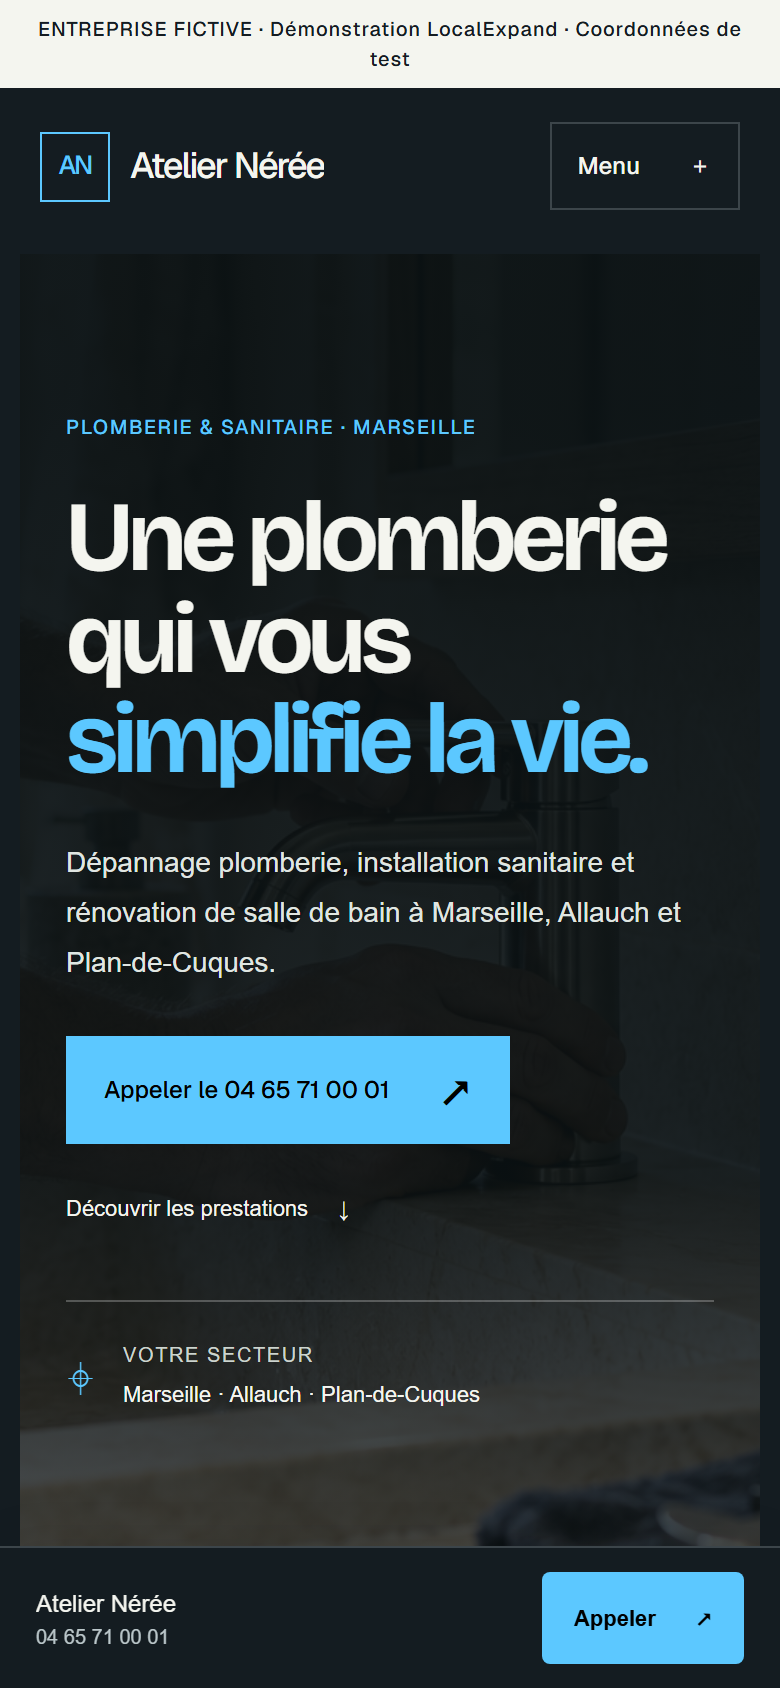
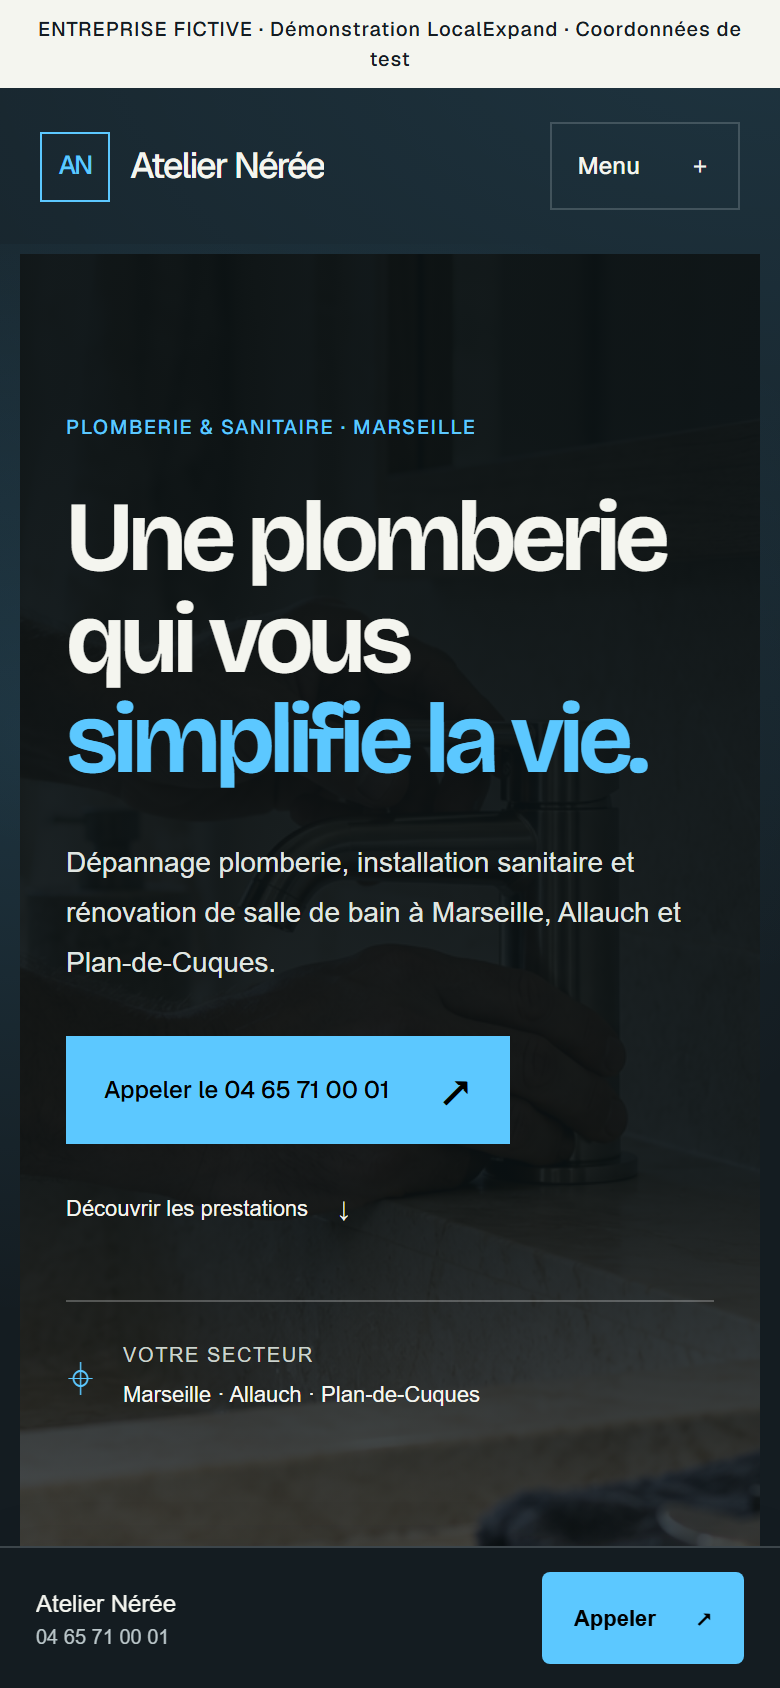
Nuances de couleur et effets sur les boutons
Halos teintés de la couleur de marque, texture discrète des zones,
profondeur de la section contact ; survol, reflet et effet enfoncé
sur les boutons, désactivés en mouvement réduit. Exemples et captures
régénérés.

Changed region(s): [[0.6154, 0.0308, 1.0, 0.1232], [0.0, 0.2464, 0.0308, 0.5237]]

diff --git a/docs/garage/styles.css b/docs/garage/styles.css
@@ -1016,6 +1016,43 @@ dt {
   .le-essential .le-about-image img {border-radius:0 28px 0 28px}
 }
 
+/* Colour nuances and tactile buttons: brand-tinted and purely decorative. */
+.le-essential {--glow:color-mix(in srgb,var(--primary) 14%,transparent);--glow-soft:color-mix(in srgb,var(--accent) 16%,transparent);--lift-shadow:0 12px 28px color-mix(in srgb,var(--primary) 34%,transparent)}
+body.le-essential {background-image:radial-gradient(1100px 680px at 100% 0,var(--glow),transparent 72%),radial-gradient(900px 620px at 0 42%,var(--glow-soft),transparent 72%);background-repeat:no-repeat}
+.le-essential .le-hero {background-image:radial-gradient(640px 420px at 8% 30%,var(--glow),transparent 70%)}
+.le-essential .le-services {background-image:linear-gradient(180deg,color-mix(in srgb,var(--primary) 7%,transparent),transparent 45%)}
+.le-essential .le-about {background-image:radial-gradient(760px 480px at 0 100%,var(--glow-soft),transparent 70%),radial-gradient(520px 360px at 100% 0,var(--glow),transparent 70%)}
+.le-essential .le-areas {position:relative;isolation:isolate}
+.le-essential .le-areas:before {content:'';position:absolute;inset:0;z-index:-1;pointer-events:none;background-image:radial-gradient(color-mix(in srgb,var(--muted) 30%,transparent) 1px,transparent 1.6px);background-size:22px 22px;-webkit-mask-image:radial-gradient(70% 90% at 70% 50%,#000,transparent);mask-image:radial-gradient(70% 90% at 70% 50%,#000,transparent)}
+.le-essential .le-contact {background-image:radial-gradient(700px 460px at 88% 10%,#ffffff2e,transparent 70%),radial-gradient(760px 520px at 0 100%,#0000002e,transparent 70%)}
+.le-essential .le-footer {background-image:linear-gradient(180deg,var(--glow),transparent 260px)}
+
+.le-essential :is(.le-button,.le-header-cta,.le-mobile-contact>a,.le-contact-action) {position:relative;overflow:hidden;isolation:isolate;-webkit-tap-highlight-color:transparent;transition:transform .22s cubic-bezier(.2,.7,.3,1),box-shadow .22s,background-color .2s,filter .2s}
+.le-essential :is(.le-button,.le-header-cta,.le-mobile-contact>a,.le-contact-action):before {content:'';position:absolute;inset:0;z-index:-1;pointer-events:none;background:linear-gradient(115deg,transparent 30%,#ffffff5c 50%,transparent 70%);transform:translateX(-130%);transition:transform .65s cubic-bezier(.2,.7,.3,1)}
+.le-essential :is(.le-button,.le-header-cta,.le-mobile-contact>a,.le-contact-action):hover {transform:translateY(-2px);box-shadow:var(--lift-shadow);filter:none}
+.le-essential :is(.le-button,.le-header-cta,.le-mobile-contact>a,.le-contact-action):hover:before {transform:translateX(130%)}
+.le-essential :is(.le-button,.le-header-cta,.le-mobile-contact>a,.le-contact-action):active {transform:translateY(1px) scale(.97);box-shadow:0 3px 10px color-mix(in srgb,var(--primary) 22%,transparent);filter:brightness(.94);transition-duration:.07s}
+.le-essential .le-contact .le-contact-action:hover {box-shadow:0 14px 30px #0000003d}
+.le-essential .le-button:after,.le-essential .le-header-cta span,.le-essential .le-mobile-contact>a span {display:inline-block;transition:transform .22s cubic-bezier(.2,.7,.3,1)}
+.le-essential .le-button:hover:after,.le-essential .le-header-cta:hover span,.le-essential .le-mobile-contact>a:hover span {transform:translate(3px,-3px)}
+.le-essential .le-hero-secondary span {display:inline-block;transition:transform .22s}
+.le-essential .le-hero-secondary:hover span {transform:translateY(3px)}
+.le-essential .le-hero-secondary:active,.le-essential .le-mobile-nav summary:active {transform:scale(.97)}
+.le-essential .le-zone-list li {transition:border-color .2s,background-color .2s,transform .2s}
+.le-essential .le-zone-list li:hover {border-color:var(--primary-ink);background-color:var(--glow);transform:translateY(-2px)}
+.le-essential .le-faq summary {transition:color .2s}
+.le-essential .le-faq summary:hover {color:var(--primary-ink)}
+.le-essential .le-gallery figure {overflow:hidden;border-radius:8px}
+.le-essential .le-gallery img {transition:transform .5s cubic-bezier(.2,.7,.3,1)}
+.le-essential .le-gallery figure:hover img {transform:scale(1.04)}
+
+@media(prefers-reduced-motion:reduce) {
+  .le-essential :is(.le-button,.le-header-cta,.le-mobile-contact>a,.le-contact-action,.le-zone-list li,.le-hero-secondary,.le-mobile-nav summary):is(:hover,:active),
+  .le-essential .le-gallery figure:hover img,.le-essential :is(.le-button,.le-header-cta,.le-mobile-contact>a,.le-hero-secondary) :is(span),
+  .le-essential .le-button:hover:after {transform:none}
+  .le-essential :is(.le-button,.le-header-cta,.le-mobile-contact>a,.le-contact-action):before {display:none}
+}
+
 /* LocalExpand typeface license: geist-latin.woff2
 Copyright 2024 The Geist Project Authors (https://github.com/vercel/geist-font.git)
 

diff --git a/docs/nettoyage/styles.css b/docs/nettoyage/styles.css
@@ -1016,6 +1016,43 @@ dt {
   .le-essential .le-about-image img {border-radius:0 28px 0 28px}
 }
 
+/* Colour nuances and tactile buttons: brand-tinted and purely decorative. */
+.le-essential {--glow:color-mix(in srgb,var(--primary) 14%,transparent);--glow-soft:color-mix(in srgb,var(--accent) 16%,transparent);--lift-shadow:0 12px 28px color-mix(in srgb,var(--primary) 34%,transparent)}
+body.le-essential {background-image:radial-gradient(1100px 680px at 100% 0,var(--glow),transparent 72%),radial-gradient(900px 620px at 0 42%,var(--glow-soft),transparent 72%);background-repeat:no-repeat}
+.le-essential .le-hero {background-image:radial-gradient(640px 420px at 8% 30%,var(--glow),transparent 70%)}
+.le-essential .le-services {background-image:linear-gradient(180deg,color-mix(in srgb,var(--primary) 7%,transparent),transparent 45%)}
+.le-essential .le-about {background-image:radial-gradient(760px 480px at 0 100%,var(--glow-soft),transparent 70%),radial-gradient(520px 360px at 100% 0,var(--glow),transparent 70%)}
+.le-essential .le-areas {position:relative;isolation:isolate}
+.le-essential .le-areas:before {content:'';position:absolute;inset:0;z-index:-1;pointer-events:none;background-image:radial-gradient(color-mix(in srgb,var(--muted) 30%,transparent) 1px,transparent 1.6px);background-size:22px 22px;-webkit-mask-image:radial-gradient(70% 90% at 70% 50%,#000,transparent);mask-image:radial-gradient(70% 90% at 70% 50%,#000,transparent)}
+.le-essential .le-contact {background-image:radial-gradient(700px 460px at 88% 10%,#ffffff2e,transparent 70%),radial-gradient(760px 520px at 0 100%,#0000002e,transparent 70%)}
+.le-essential .le-footer {background-image:linear-gradient(180deg,var(--glow),transparent 260px)}
+
+.le-essential :is(.le-button,.le-header-cta,.le-mobile-contact>a,.le-contact-action) {position:relative;overflow:hidden;isolation:isolate;-webkit-tap-highlight-color:transparent;transition:transform .22s cubic-bezier(.2,.7,.3,1),box-shadow .22s,background-color .2s,filter .2s}
+.le-essential :is(.le-button,.le-header-cta,.le-mobile-contact>a,.le-contact-action):before {content:'';position:absolute;inset:0;z-index:-1;pointer-events:none;background:linear-gradient(115deg,transparent 30%,#ffffff5c 50%,transparent 70%);transform:translateX(-130%);transition:transform .65s cubic-bezier(.2,.7,.3,1)}
+.le-essential :is(.le-button,.le-header-cta,.le-mobile-contact>a,.le-contact-action):hover {transform:translateY(-2px);box-shadow:var(--lift-shadow);filter:none}
+.le-essential :is(.le-button,.le-header-cta,.le-mobile-contact>a,.le-contact-action):hover:before {transform:translateX(130%)}
+.le-essential :is(.le-button,.le-header-cta,.le-mobile-contact>a,.le-contact-action):active {transform:translateY(1px) scale(.97);box-shadow:0 3px 10px color-mix(in srgb,var(--primary) 22%,transparent);filter:brightness(.94);transition-duration:.07s}
+.le-essential .le-contact .le-contact-action:hover {box-shadow:0 14px 30px #0000003d}
+.le-essential .le-button:after,.le-essential .le-header-cta span,.le-essential .le-mobile-contact>a span {display:inline-block;transition:transform .22s cubic-bezier(.2,.7,.3,1)}
+.le-essential .le-button:hover:after,.le-essential .le-header-cta:hover span,.le-essential .le-mobile-contact>a:hover span {transform:translate(3px,-3px)}
+.le-essential .le-hero-secondary span {display:inline-block;transition:transform .22s}
+.le-essential .le-hero-secondary:hover span {transform:translateY(3px)}
+.le-essential .le-hero-secondary:active,.le-essential .le-mobile-nav summary:active {transform:scale(.97)}
+.le-essential .le-zone-list li {transition:border-color .2s,background-color .2s,transform .2s}
+.le-essential .le-zone-list li:hover {border-color:var(--primary-ink);background-color:var(--glow);transform:translateY(-2px)}
+.le-essential .le-faq summary {transition:color .2s}
+.le-essential .le-faq summary:hover {color:var(--primary-ink)}
+.le-essential .le-gallery figure {overflow:hidden;border-radius:8px}
+.le-essential .le-gallery img {transition:transform .5s cubic-bezier(.2,.7,.3,1)}
+.le-essential .le-gallery figure:hover img {transform:scale(1.04)}
+
+@media(prefers-reduced-motion:reduce) {
+  .le-essential :is(.le-button,.le-header-cta,.le-mobile-contact>a,.le-contact-action,.le-zone-list li,.le-hero-secondary,.le-mobile-nav summary):is(:hover,:active),
+  .le-essential .le-gallery figure:hover img,.le-essential :is(.le-button,.le-header-cta,.le-mobile-contact>a,.le-hero-secondary) :is(span),
+  .le-essential .le-button:hover:after {transform:none}
+  .le-essential :is(.le-button,.le-header-cta,.le-mobile-contact>a,.le-contact-action):before {display:none}
+}
+
 /* LocalExpand typeface license: geist-latin.woff2
 Copyright 2024 The Geist Project Authors (https://github.com/vercel/geist-font.git)
 

diff --git a/docs/plombier/styles.css b/docs/plombier/styles.css
@@ -1016,6 +1016,43 @@ dt {
   .le-essential .le-about-image img {border-radius:0 28px 0 28px}
 }
 
+/* Colour nuances and tactile buttons: brand-tinted and purely decorative. */
+.le-essential {--glow:color-mix(in srgb,var(--primary) 14%,transparent);--glow-soft:color-mix(in srgb,var(--accent) 16%,transparent);--lift-shadow:0 12px 28px color-mix(in srgb,var(--primary) 34%,transparent)}
+body.le-essential {background-image:radial-gradient(1100px 680px at 100% 0,var(--glow),transparent 72%),radial-gradient(900px 620px at 0 42%,var(--glow-soft),transparent 72%);background-repeat:no-repeat}
+.le-essential .le-hero {background-image:radial-gradient(640px 420px at 8% 30%,var(--glow),transparent 70%)}
+.le-essential .le-services {background-image:linear-gradient(180deg,color-mix(in srgb,var(--primary) 7%,transparent),transparent 45%)}
+.le-essential .le-about {background-image:radial-gradient(760px 480px at 0 100%,var(--glow-soft),transparent 70%),radial-gradient(520px 360px at 100% 0,var(--glow),transparent 70%)}
+.le-essential .le-areas {position:relative;isolation:isolate}
+.le-essential .le-areas:before {content:'';position:absolute;inset:0;z-index:-1;pointer-events:none;background-image:radial-gradient(color-mix(in srgb,var(--muted) 30%,transparent) 1px,transparent 1.6px);background-size:22px 22px;-webkit-mask-image:radial-gradient(70% 90% at 70% 50%,#000,transparent);mask-image:radial-gradient(70% 90% at 70% 50%,#000,transparent)}
+.le-essential .le-contact {background-image:radial-gradient(700px 460px at 88% 10%,#ffffff2e,transparent 70%),radial-gradient(760px 520px at 0 100%,#0000002e,transparent 70%)}
+.le-essential .le-footer {background-image:linear-gradient(180deg,var(--glow),transparent 260px)}
+
+.le-essential :is(.le-button,.le-header-cta,.le-mobile-contact>a,.le-contact-action) {position:relative;overflow:hidden;isolation:isolate;-webkit-tap-highlight-color:transparent;transition:transform .22s cubic-bezier(.2,.7,.3,1),box-shadow .22s,background-color .2s,filter .2s}
+.le-essential :is(.le-button,.le-header-cta,.le-mobile-contact>a,.le-contact-action):before {content:'';position:absolute;inset:0;z-index:-1;pointer-events:none;background:linear-gradient(115deg,transparent 30%,#ffffff5c 50%,transparent 70%);transform:translateX(-130%);transition:transform .65s cubic-bezier(.2,.7,.3,1)}
+.le-essential :is(.le-button,.le-header-cta,.le-mobile-contact>a,.le-contact-action):hover {transform:translateY(-2px);box-shadow:var(--lift-shadow);filter:none}
+.le-essential :is(.le-button,.le-header-cta,.le-mobile-contact>a,.le-contact-action):hover:before {transform:translateX(130%)}
+.le-essential :is(.le-button,.le-header-cta,.le-mobile-contact>a,.le-contact-action):active {transform:translateY(1px) scale(.97);box-shadow:0 3px 10px color-mix(in srgb,var(--primary) 22%,transparent);filter:brightness(.94);transition-duration:.07s}
+.le-essential .le-contact .le-contact-action:hover {box-shadow:0 14px 30px #0000003d}
+.le-essential .le-button:after,.le-essential .le-header-cta span,.le-essential .le-mobile-contact>a span {display:inline-block;transition:transform .22s cubic-bezier(.2,.7,.3,1)}
+.le-essential .le-button:hover:after,.le-essential .le-header-cta:hover span,.le-essential .le-mobile-contact>a:hover span {transform:translate(3px,-3px)}
+.le-essential .le-hero-secondary span {display:inline-block;transition:transform .22s}
+.le-essential .le-hero-secondary:hover span {transform:translateY(3px)}
+.le-essential .le-hero-secondary:active,.le-essential .le-mobile-nav summary:active {transform:scale(.97)}
+.le-essential .le-zone-list li {transition:border-color .2s,background-color .2s,transform .2s}
+.le-essential .le-zone-list li:hover {border-color:var(--primary-ink);background-color:var(--glow);transform:translateY(-2px)}
+.le-essential .le-faq summary {transition:color .2s}
+.le-essential .le-faq summary:hover {color:var(--primary-ink)}
+.le-essential .le-gallery figure {overflow:hidden;border-radius:8px}
+.le-essential .le-gallery img {transition:transform .5s cubic-bezier(.2,.7,.3,1)}
+.le-essential .le-gallery figure:hover img {transform:scale(1.04)}
+
+@media(prefers-reduced-motion:reduce) {
+  .le-essential :is(.le-button,.le-header-cta,.le-mobile-contact>a,.le-contact-action,.le-zone-list li,.le-hero-secondary,.le-mobile-nav summary):is(:hover,:active),
+  .le-essential .le-gallery figure:hover img,.le-essential :is(.le-button,.le-header-cta,.le-mobile-contact>a,.le-hero-secondary) :is(span),
+  .le-essential .le-button:hover:after {transform:none}
+  .le-essential :is(.le-button,.le-header-cta,.le-mobile-contact>a,.le-contact-action):before {display:none}
+}
+
 /* LocalExpand typeface license: geist-latin.woff2
 Copyright 2024 The Geist Project Authors (https://github.com/vercel/geist-font.git)
 

diff --git a/generation/essential-design.css b/generation/essential-design.css
@@ -382,3 +382,40 @@
   .le-essential .le-about-image {margin:0}
   .le-essential .le-about-image img {border-radius:0 28px 0 28px}
 }
+
+/* Colour nuances and tactile buttons: brand-tinted and purely decorative. */
+.le-essential {--glow:color-mix(in srgb,var(--primary) 14%,transparent);--glow-soft:color-mix(in srgb,var(--accent) 16%,transparent);--lift-shadow:0 12px 28px color-mix(in srgb,var(--primary) 34%,transparent)}
+body.le-essential {background-image:radial-gradient(1100px 680px at 100% 0,var(--glow),transparent 72%),radial-gradient(900px 620px at 0 42%,var(--glow-soft),transparent 72%);background-repeat:no-repeat}
+.le-essential .le-hero {background-image:radial-gradient(640px 420px at 8% 30%,var(--glow),transparent 70%)}
+.le-essential .le-services {background-image:linear-gradient(180deg,color-mix(in srgb,var(--primary) 7%,transparent),transparent 45%)}
+.le-essential .le-about {background-image:radial-gradient(760px 480px at 0 100%,var(--glow-soft),transparent 70%),radial-gradient(520px 360px at 100% 0,var(--glow),transparent 70%)}
+.le-essential .le-areas {position:relative;isolation:isolate}
+.le-essential .le-areas:before {content:'';position:absolute;inset:0;z-index:-1;pointer-events:none;background-image:radial-gradient(color-mix(in srgb,var(--muted) 30%,transparent) 1px,transparent 1.6px);background-size:22px 22px;-webkit-mask-image:radial-gradient(70% 90% at 70% 50%,#000,transparent);mask-image:radial-gradient(70% 90% at 70% 50%,#000,transparent)}
+.le-essential .le-contact {background-image:radial-gradient(700px 460px at 88% 10%,#ffffff2e,transparent 70%),radial-gradient(760px 520px at 0 100%,#0000002e,transparent 70%)}
+.le-essential .le-footer {background-image:linear-gradient(180deg,var(--glow),transparent 260px)}
+
+.le-essential :is(.le-button,.le-header-cta,.le-mobile-contact>a,.le-contact-action) {position:relative;overflow:hidden;isolation:isolate;-webkit-tap-highlight-color:transparent;transition:transform .22s cubic-bezier(.2,.7,.3,1),box-shadow .22s,background-color .2s,filter .2s}
+.le-essential :is(.le-button,.le-header-cta,.le-mobile-contact>a,.le-contact-action):before {content:'';position:absolute;inset:0;z-index:-1;pointer-events:none;background:linear-gradient(115deg,transparent 30%,#ffffff5c 50%,transparent 70%);transform:translateX(-130%);transition:transform .65s cubic-bezier(.2,.7,.3,1)}
+.le-essential :is(.le-button,.le-header-cta,.le-mobile-contact>a,.le-contact-action):hover {transform:translateY(-2px);box-shadow:var(--lift-shadow);filter:none}
+.le-essential :is(.le-button,.le-header-cta,.le-mobile-contact>a,.le-contact-action):hover:before {transform:translateX(130%)}
+.le-essential :is(.le-button,.le-header-cta,.le-mobile-contact>a,.le-contact-action):active {transform:translateY(1px) scale(.97);box-shadow:0 3px 10px color-mix(in srgb,var(--primary) 22%,transparent);filter:brightness(.94);transition-duration:.07s}
+.le-essential .le-contact .le-contact-action:hover {box-shadow:0 14px 30px #0000003d}
+.le-essential .le-button:after,.le-essential .le-header-cta span,.le-essential .le-mobile-contact>a span {display:inline-block;transition:transform .22s cubic-bezier(.2,.7,.3,1)}
+.le-essential .le-button:hover:after,.le-essential .le-header-cta:hover span,.le-essential .le-mobile-contact>a:hover span {transform:translate(3px,-3px)}
+.le-essential .le-hero-secondary span {display:inline-block;transition:transform .22s}
+.le-essential .le-hero-secondary:hover span {transform:translateY(3px)}
+.le-essential .le-hero-secondary:active,.le-essential .le-mobile-nav summary:active {transform:scale(.97)}
+.le-essential .le-zone-list li {transition:border-color .2s,background-color .2s,transform .2s}
+.le-essential .le-zone-list li:hover {border-color:var(--primary-ink);background-color:var(--glow);transform:translateY(-2px)}
+.le-essential .le-faq summary {transition:color .2s}
+.le-essential .le-faq summary:hover {color:var(--primary-ink)}
+.le-essential .le-gallery figure {overflow:hidden;border-radius:8px}
+.le-essential .le-gallery img {transition:transform .5s cubic-bezier(.2,.7,.3,1)}
+.le-essential .le-gallery figure:hover img {transform:scale(1.04)}
+
+@media(prefers-reduced-motion:reduce) {
+  .le-essential :is(.le-button,.le-header-cta,.le-mobile-contact>a,.le-contact-action,.le-zone-list li,.le-hero-secondary,.le-mobile-nav summary):is(:hover,:active),
+  .le-essential .le-gallery figure:hover img,.le-essential :is(.le-button,.le-header-cta,.le-mobile-contact>a,.le-hero-secondary) :is(span),
+  .le-essential .le-button:hover:after {transform:none}
+  .le-essential :is(.le-button,.le-header-cta,.le-mobile-contact>a,.le-contact-action):before {display:none}
+}
